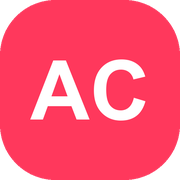
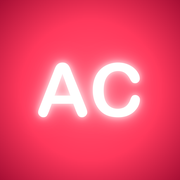
Régénérer les icônes en néon, sans transparence
Les anciennes icônes avaient un canal alpha avec des coins transparents :
sur iOS, le masque squircle du système révélait ces coins non colorés,
laissant des bords sans couleur. Nouvelles icônes pleine couleur (RGB,
sans alpha) avec un dégradé rouge néon et un halo lumineux autour du
logo AC, pour qu'iOS puisse appliquer son masque sans zone vide.

diff --git a/sw.js b/sw.js
@@ -1,4 +1,4 @@
-const CACHE_NAME = 'aircover-manager-v3';
+const CACHE_NAME = 'aircover-manager-v4';
 const APP_SHELL = [
   '/',
   '/nouveau/',
